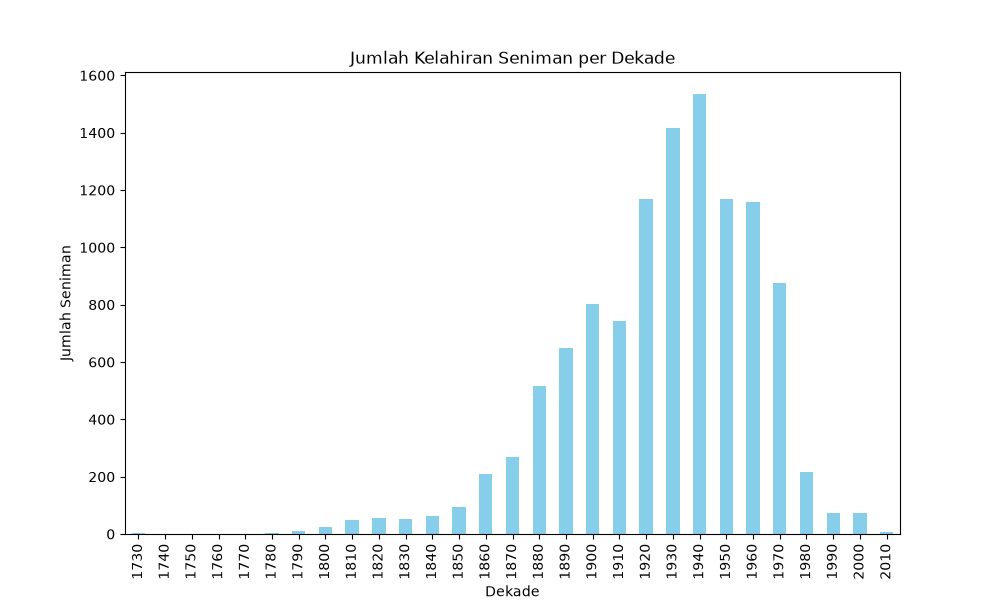
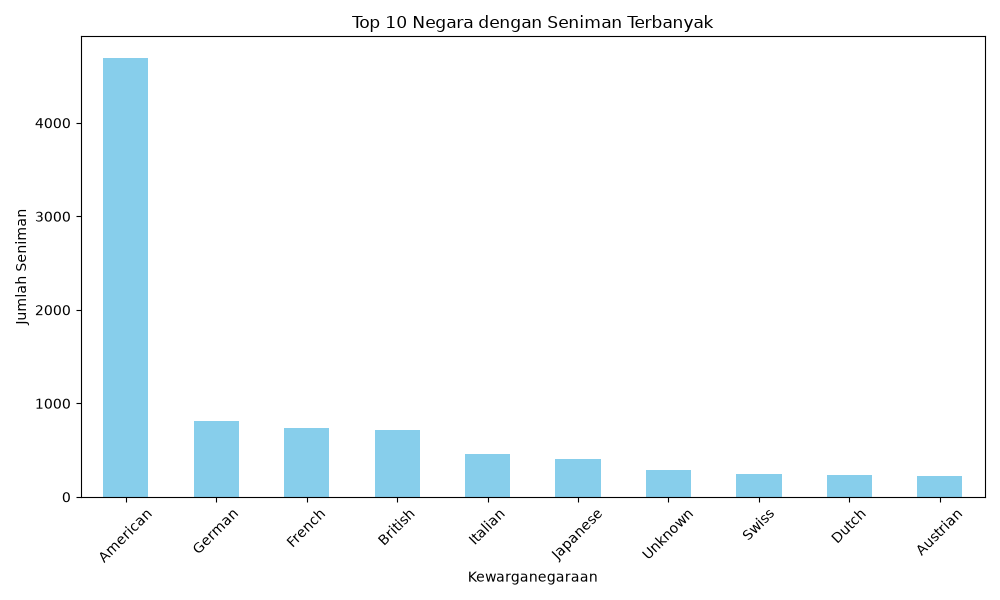
Fix grafik + hasil analisis

Changed region(s): [[0.0, 0.09, 0.961, 1.0], [0.341, 0.03, 0.713, 0.12]]

diff --git a/main.py b/main.py
@@ -2,6 +2,7 @@ from utils import (
     muat_data,
     bersihkan_data,
     hitung_per_dekade,
+    hitung_per_negara,
     buat_grafik,
     simpan_hasil_analisis
 )
@@ -10,24 +11,37 @@ from utils import (
 def main():
     path_dataset = "dataset/artists.csv"
 
+    
     df = muat_data(path_dataset)
     df_bersih = bersihkan_data(df)
-    hasil_dekade = hitung_per_dekade(df_bersih)
 
+    
+    hasil_dekade = hitung_per_dekade(df_bersih)
+    hasil_negara = hitung_per_negara(df_bersih)
+
+    
     print("\n=== 5 Data Pertama ===")
     print(df_bersih.head())
+
     print("\n=== Jumlah Seniman per Dekade ===")
     print(hasil_dekade)
 
+    print("\n=== Top 10 Negara dengan Seniman Terbanyak ===")
+    print(hasil_negara)
+
+    
     buat_grafik(
         hasil_dekade,
+        hasil_negara,
         "grafik_line.png",
         "grafik_bar.png"
     )
 
+    
     simpan_hasil_analisis(
         df_bersih,
         hasil_dekade,
+        hasil_negara,
         "hasil_analisis.txt"
     )
 

diff --git a/utils.py b/utils.py
@@ -49,7 +49,7 @@ def buat_grafik(hasil_dekade, hasil_negara, path_output_line, path_output_bar):
     plt.close()
 
 
-def simpan_hasil_analisis(df_bersih, hasil_dekade, path_output):
+def simpan_hasil_analisis(df_bersih, hasil_dekade, hasil_negara, path_output):
     dekade_puncak = hasil_dekade.idxmax()
     jumlah_puncak = hasil_dekade.max()
 
@@ -61,3 +61,5 @@ def simpan_hasil_analisis(df_bersih, hasil_dekade, path_output):
         f.write(str(hasil_dekade))
         f.write(f"\n\nDekade dengan kelahiran seniman terbanyak: {dekade_puncak}")
         f.write(f"\nJumlah seniman lahir di dekade tsb: {jumlah_puncak}")
+        f.write("\n\nTop 10 Kewarganegaraan Seniman:\n")
+        f.write(str(hasil_negara))